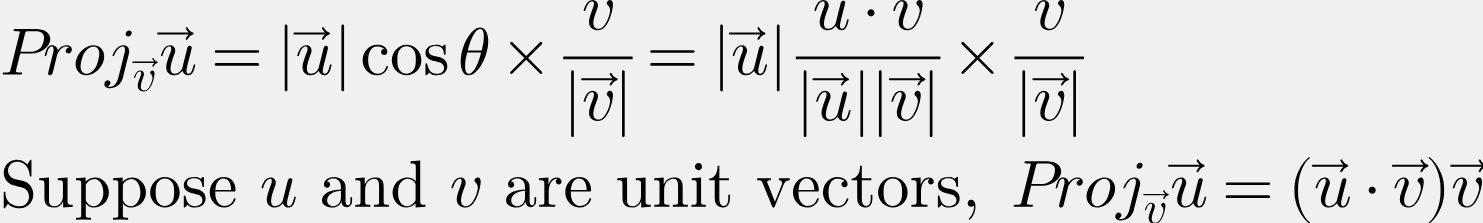
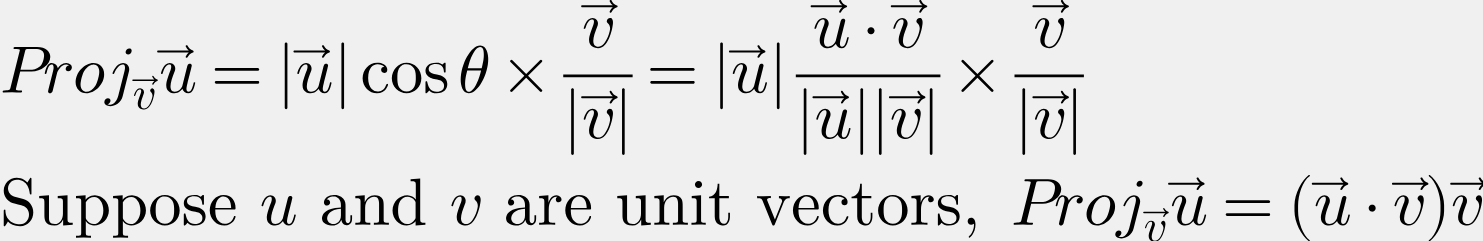
Fixed accent tests

diff --git a/CSharpMath.SkiaSharp.Tests/MathData.cs b/CSharpMath.SkiaSharp.Tests/MathData.cs
@@ -3,8 +3,9 @@ namespace CSharpMath.SkiaSharp {
   public sealed class MathData : SharedData<MathData> {
     public const string Color = @"\color{#008}a\color{#00F}b\color{#080}c\color{#088}d\color{#08F}e\color{#0F0}f\color{#0F8}g\color{#0FF}h\color{#800}i\color{#808}j\color{#80F}k\color{#880}l\color{#888}m\color{#88F}n\color{#8F0}o\color{#8F8}p\color{#8FF}q\color{#F00}r\color{#F08}s\color{#F0F}t\color{#F80}u\color{#F88}v\color{#F8F}w\color{#FF0}x\color{#FF8}y\color{#FFF}z";
 
-    //START mirror CSharpMath.Ios.Example
-    public const string Accent = @"\acute{x}";
+    public const string AccentOver = @"\acute{x}";
+    public const string AccentOverMultiple = @"\hat{ABcd}";
+    public const string AccentUnder = @"\threeunderdot{x}";
     public const string Choose = @"{6 \choose x}";
     public const string Commands = @"5\times(-2 \div 1) = -10";
 
@@ -66,8 +67,7 @@ namespace CSharpMath.SkiaSharp {
     public const string Taylor = @"\begin{eqnarray} e^x  &=&  \sum_{n=0}^{\infty}\frac{x^n}{n!} \\ \\ \sin(x) &=& \sum_{n=0}^{\infty}(-1)^n\frac{x^{2n+1}}{(2n+1)!}  \\ \\ -\ln(1-x)   &=& \sum_{n=1}^{\infty}\frac{x^n}{n}  \ \ \ \ \ (-1 \leq x < 1) \end{eqnarray}";
     public const string TwoSin = @"2 \sin";
     public const string Underline = @"\underline{Underline}";
-    //END mirror CSharpMath.Ios.Example
-
+    
     public const string BMartix = @"\begin{bmatrix} x_{11}&x_{12}&x_{13}&.&.&.&.&x_{1n} \end{bmatrix}";
     public const string SolveEquations = @"\text{Solve } \begin{cases} y=x^2-x+3 \\ y=x^2+\sqrt x-\frac2x \end{cases} \text{ using the graphical method.}";
     public const string Abs = @"|x|=\begin{cases} -x, & \text{ if } x < 0 \\ x, & \text{ if } x \geq 0 \end{cases}";

diff --git a/CSharpMath/Displays/IDisplay.cs b/CSharpMath/Displays/IDisplay.cs
@@ -6,7 +6,6 @@ namespace CSharpMath.Displays {
   using FrontEnd;
   public interface IDisplay<TFont, TGlyph> where TFont : IFont<TGlyph> {
     void Draw(IGraphicsContext<TFont, TGlyph> context);
-    RectangleF DisplayBounds { get; }
     /// <summary>By convention, Ascent and Descent should be positive
     /// numbers for the typical case where your font is partly above
     /// and partly below the baseline. This may differ from the 
@@ -29,12 +28,11 @@ namespace CSharpMath {
   partial class Extensions {
     /// <summary>The display's bounds, in its own coordinate system.</summary> 
     public static RectangleF DisplayBounds<TFont, TGlyph>
-      (this IDisplay<TFont, TGlyph> display, bool invert = false) where TFont : IFont<TGlyph> =>
-      new RectangleF(0, invert ? display.Descent : -display.Ascent,
-        display.Width, display.Ascent + display.Descent);
+      (this IDisplay<TFont, TGlyph> display) where TFont : IFont<TGlyph> =>
+      new RectangleF(0, -display.Ascent, display.Width, display.Ascent + display.Descent);
     /// <summary>Where the display is located, expressed in its parent's coordinate system.</summary>
     public static RectangleF Frame<TFont, TGlyph>
-      (this IDisplay<TFont, TGlyph> display, bool invert = false) where TFont : IFont<TGlyph> =>
-      display.DisplayBounds(invert).Plus(display.Position);
+      (this IDisplay<TFont, TGlyph> display) where TFont : IFont<TGlyph> =>
+      display.DisplayBounds().Plus(display.Position);
   }
 }

diff --git a/CSharpMath.Editor/EditingExtensions/RadicalDisplay.cs b/CSharpMath.Editor/EditingExtensions/RadicalDisplay.cs
@@ -19,8 +19,8 @@ namespace CSharpMath.Editor {
       //We are after the radical
       ? MathListIndex.Level0Index(self.Range.End)
       //We can be either near the degree or the radicand
-      : DistanceFromPointToRect(point, self.Degree != null ? new RectangleF(self.Degree.Position, self.Degree.DisplayBounds.Size) : default)
-      < DistanceFromPointToRect(point, new RectangleF(self.Radicand.Position, self.Radicand.DisplayBounds.Size))
+      : DistanceFromPointToRect(point, self.Degree != null ? new RectangleF(self.Degree.Position, self.Degree.DisplayBounds().Size) : default)
+      < DistanceFromPointToRect(point, new RectangleF(self.Radicand.Position, self.Radicand.DisplayBounds().Size))
       ? self.Degree != null
         ? MathListIndex.IndexAtLocation(self.Range.Location, MathListSubIndexType.Degree, self.Degree.IndexForPoint(context, point))
         : MathListIndex.Level0Index(self.Range.Location)
@@ -35,7 +35,7 @@ namespace CSharpMath.Editor {
 
       if (index.AtomIndex == self.Range.End)
         // draw a caret after the radical
-        return self.Position.Plus(new PointF(self.DisplayBounds.Right, 0));
+        return self.Position.Plus(new PointF(self.DisplayBounds().Right, 0));
       // draw a caret before the radical
       return self.Position;
     }

diff --git a/CSharpMath/Displays/Display/AccentDisplay.cs b/CSharpMath/Displays/Display/AccentDisplay.cs
@@ -10,18 +10,17 @@ namespace CSharpMath.Displays.Display {
       Accentee = accentee;
     }
     ///<summary>A display representing the inner list that is accented.
-    ///It's position is relative to the parent is not treated as a sub-display.</summary>
+    ///Its position is relative to the parent is not treated as a sub-display.</summary>
     public IDisplay<TFont, TGlyph> Accentee { get; private set; }
     ///<summary>A display representing the accent.
-    ///It's position is relative to the current display.</summary>
+    ///Its position is relative to the current display.</summary>
     public GlyphDisplay<TFont, TGlyph> Accent { get; private set; }
-    public RectangleF DisplayBounds => Accentee.DisplayBounds;
 
-    public float Ascent => Accentee.Ascent;
+    public float Ascent => System.Math.Max(Accent.Ascent + Accent.Position.Y, Accentee.Ascent);
 
-    public float Descent => Accentee.Descent;
+    public float Descent => System.Math.Max(Accent.Descent + Accent.Position.Y, Accentee.Descent);
 
-    public float Width => Accentee.Width;
+    public float Width => System.Math.Max(Accent.Width + Accent.Position.X, Accentee.Width);
 
     public Range Range => Accentee.Range;
 

diff --git a/CSharpMath.SkiaSharp.Tests/Tests.cs b/CSharpMath.SkiaSharp.Tests/Tests.cs
@@ -8,6 +8,8 @@ using Xunit;
 namespace CSharpMath.SkiaSharp {
   using Rendering.Renderer;
   public class TestsFixture : IDisposable {
+    // Switch this on and run all tests if you are curious :)
+    public static bool TestIfAllImagesWereTested = false;
     public TestsFixture() {
       // Pre-initialize the typefaces to speed tests up
       Rendering.FrontEnd.Fonts.GlobalTypefaces.ToString();
@@ -16,9 +18,12 @@ namespace CSharpMath.SkiaSharp {
         Tests.Folders.SelectMany(folder => Directory.EnumerateFiles(folder, "*.actual.*")))
         File.Delete(garbage);
     }
-    // Verify that all expected images have been tested against
     public void Dispose() {
       Assert.NotEmpty(Tests.Folders);
+      if (System.Diagnostics.Debugger.IsAttached || !TestIfAllImagesWereTested)
+        return;
+      // Verify that all expected images have been tested against
+      // FAILS if tests are executed in isolation!! (Not all tests are run)
       Assert.All(
         Tests.Folders.SelectMany(folder =>
           Directory.EnumerateFiles(folder)

diff --git a/CSharpMath.Editor/EditingExtensions/ListDisplay.cs b/CSharpMath.Editor/EditingExtensions/ListDisplay.cs
@@ -21,7 +21,7 @@ namespace CSharpMath.Editor {
       var xbounds = new List<IDisplay<TFont, TGlyph>>();
       float minDistance = float.MaxValue;
       foreach (var display in self.Displays) {
-        var bounds = display.DisplayBounds;
+        var bounds = display.DisplayBounds();
         var rect = new RectangleF(display.Position, bounds.Size);
         var maxBoundsX = rect.Right;
         if (rect.X - PixelDelta <= translatedPoint.X && translatedPoint.X <= maxBoundsX + PixelDelta)
@@ -60,7 +60,7 @@ namespace CSharpMath.Editor {
           break;
         case 1:
           displayWithPoint = xbounds[0];
-          var rect = new RectangleF(displayWithPoint.Position, displayWithPoint.DisplayBounds.Size);
+          var rect = new RectangleF(displayWithPoint.Position, displayWithPoint.DisplayBounds().Size);
           if (translatedPoint.X >= self.Width - PixelDelta)
             // The point is close to the end. Only use the selected X bounds if the Y is within range.
             if (translatedPoint.Y <= rect.YMin() - PixelDelta)

diff --git a/CSharpMath.Forms.Example/CSharpMath.Forms.Example/LayoutPage.xaml.cs b/CSharpMath.Forms.Example/CSharpMath.Forms.Example/LayoutPage.xaml.cs
@@ -39,12 +39,12 @@ Was added in 0.1.0-pre4; working in 0.1.0-pre5; fully tested in 0.1.0-pre6. \[\f
           measure.Width, measure.Height, new global::SkiaSharp.SKPaint {
             Color = global::SkiaSharp.SKColors.Orange
           });
-        measure = painter._absoluteXCoordDisplay.DisplayBounds;
+        measure = painter._absoluteXCoordDisplay.DisplayBounds();
         e.Surface.Canvas.DrawRect(x + measure.X, y + measure.Y,
           measure.Width, measure.Height, new global::SkiaSharp.SKPaint {
             Color = global::SkiaSharp.SKColors.Red, IsStroke = true
           });
-        measure = painter._relativeXCoordDisplay.DisplayBounds;
+        measure = painter._relativeXCoordDisplay.DisplayBounds();
         e.Surface.Canvas.DrawRect(x + measure.X, y + measure.Y,
           measure.Width, measure.Height, new global::SkiaSharp.SKPaint {
             Color = global::SkiaSharp.SKColors.Blue, IsStroke = true

diff --git a/CSharpMath.Rendering/Renderer/TextPainter.cs b/CSharpMath.Rendering/Renderer/TextPainter.cs
@@ -34,9 +34,7 @@ namespace CSharpMath.Rendering.Renderer {
     public override RectangleF? Measure(float canvasWidth) {
       UpdateDisplay(canvasWidth);
       return 
-        _relativeXCoordDisplay
-        ?.Frame(CoordinatesFromBottomLeftInsteadOfTopLeft)
-        .Union(_absoluteXCoordDisplay.Frame(CoordinatesFromBottomLeftInsteadOfTopLeft));
+        _relativeXCoordDisplay?.Frame().Union(_absoluteXCoordDisplay.Frame());
     }
     protected void UpdateDisplay(float canvasWidth) =>
       (_relativeXCoordDisplay, _absoluteXCoordDisplay) =

diff --git a/CSharpMath/Displays/Display/LargeOpLimitsDisplay.cs b/CSharpMath/Displays/Display/LargeOpLimitsDisplay.cs
@@ -39,7 +39,7 @@ namespace CSharpMath.Displays.Display {
     ///<summary>A display representing the numerator of the fraction.
     ///Its position is relative to the parent and it is not treated as a sub-display.</summary>
     public IDisplay<TFont, TGlyph>? LowerLimit { get; private set; }
-    public RectangleF DisplayBounds => this.DisplayBounds();
+    
     public float Ascent =>
       _nucleusDisplay.Ascent +
       (_extraPadding + UpperLimit?.Ascent + _upperLimitGap + UpperLimit?.Descent ?? 0);

diff --git a/CSharpMath.Rendering/Renderer/MathPainter.cs b/CSharpMath.Rendering/Renderer/MathPainter.cs
@@ -13,7 +13,7 @@ namespace CSharpMath.Rendering.Renderer {
     public override string LaTeX { get => Source.LaTeX; set => Source = new MathSource(value); }
     public override RectangleF? Measure(float unused = float.NaN) {
       UpdateDisplay();
-      return _display?.DisplayBounds(CoordinatesFromBottomLeftInsteadOfTopLeft);
+      return _display?.DisplayBounds();
     }
     protected override void SetRedisplay() => _displayChanged = true;
     protected void UpdateDisplay() {

diff --git a/CSharpMath.Editor/Keyboards/MathKeyboard.cs b/CSharpMath.Editor/Keyboards/MathKeyboard.cs
@@ -23,7 +23,7 @@ namespace CSharpMath.Editor {
     public TFont Font { get; set; }
     public LineStyle LineStyle { get; set; }
     public Structures.Color SelectColor { get; set; }
-    public RectangleF? Measure => Display?.DisplayBounds;
+    public RectangleF? Measure => Display?.DisplayBounds();
     public bool HasText => MathList?.Atoms?.Count > 0;
     public void RecreateDisplayFromMathList() {
       var position = Display?.Position ?? default;

diff --git a/CSharpMath/Displays/Display/TextLineDisplay.cs b/CSharpMath/Displays/Display/TextLineDisplay.cs
@@ -23,7 +23,7 @@ namespace CSharpMath.Displays.Display {
     public List<TextRunDisplay<TFont, TGlyph>> Runs { get; }
     public IReadOnlyList<MathAtom> Atoms { get; }
     public IEnumerable<TGlyph> Text => Runs.SelectMany(run => run.Run.Glyphs);
-    public RectangleF DisplayBounds => this.DisplayBounds();
+    
     public void Draw(IGraphicsContext<TFont, TGlyph> context) {
       context.SaveState();
       context.SetTextPosition(this.Position);
